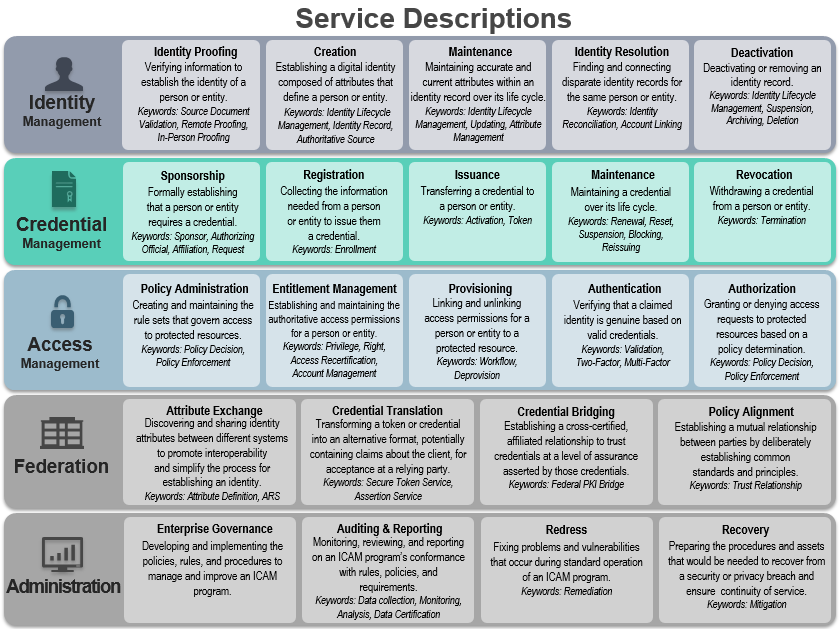
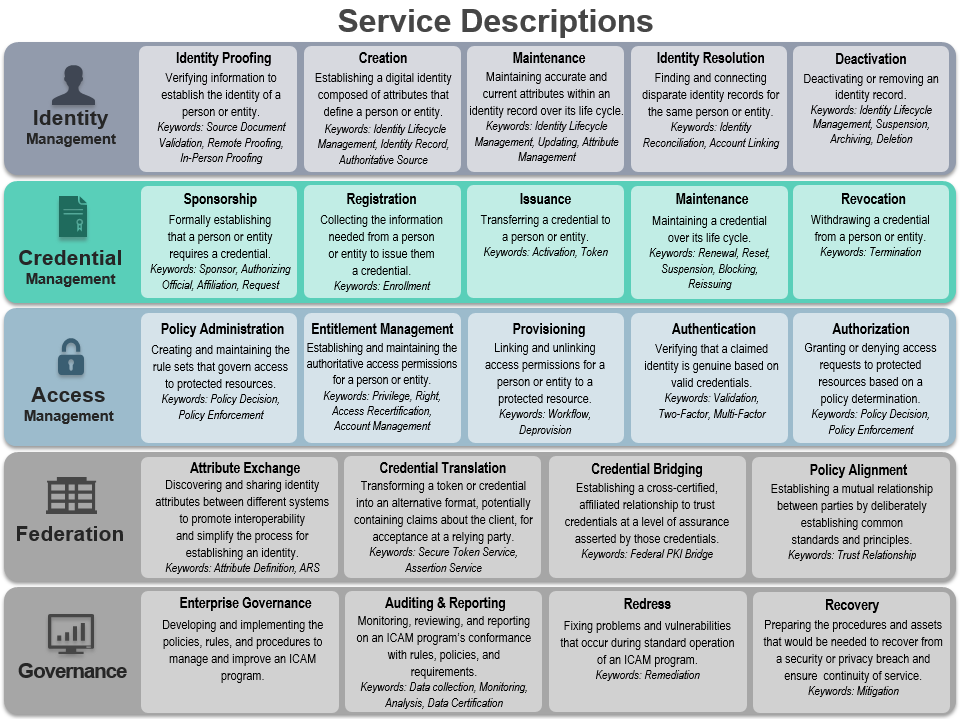
Revert to Governance

diff --git a/_includes/index_services.md b/_includes/index_services.md
@@ -2,7 +2,7 @@
 Outlines the services delivered by ICAM through either business processes or technical capabilities and briefly describes the functionality each service should provide. It is composed of two elements:
 
 * Diagram – A graphic showing all ICAM services, grouped into the service types of Identity Management, 
-Credential Management, Access Management, Administration, and Federation.
+Credential Management, Access Management, Governance, and Federation.
 * Service Descriptions – Descriptions of the functionality each service provides and related keywords.
 
 ##Audience

diff --git a/pages/ficam_conceptual.md b/pages/ficam_conceptual.md
@@ -5,7 +5,6 @@ permalink: /conceptual/
 ---
 Provides a high-level overview of ICAM using visuals to explain basic concepts, terms & relationships. 
 
-
 It is broken into the functional areas of Identity, Credential, and Access Management with two main components in each box:
 
 •	Category Description & Storyboard – A narrative and visual explanation of the concept, designed to work together to help the non-technical reader understand basic terms and functionality.

diff --git a/_services/15_governance.md b/_services/15_governance.md
@@ -1,9 +1,9 @@
 ---
 layout: page
-title: Administration
+title: Governance
 collection: services
 ---
-<img src ="../../img/Administration.png" align = "left">
+<img src ="../../img/Governance.png" align = "left">
 
 
 <p style="line-height:.3; font-size:15px"><b>Enterprise Governance</b></p>
